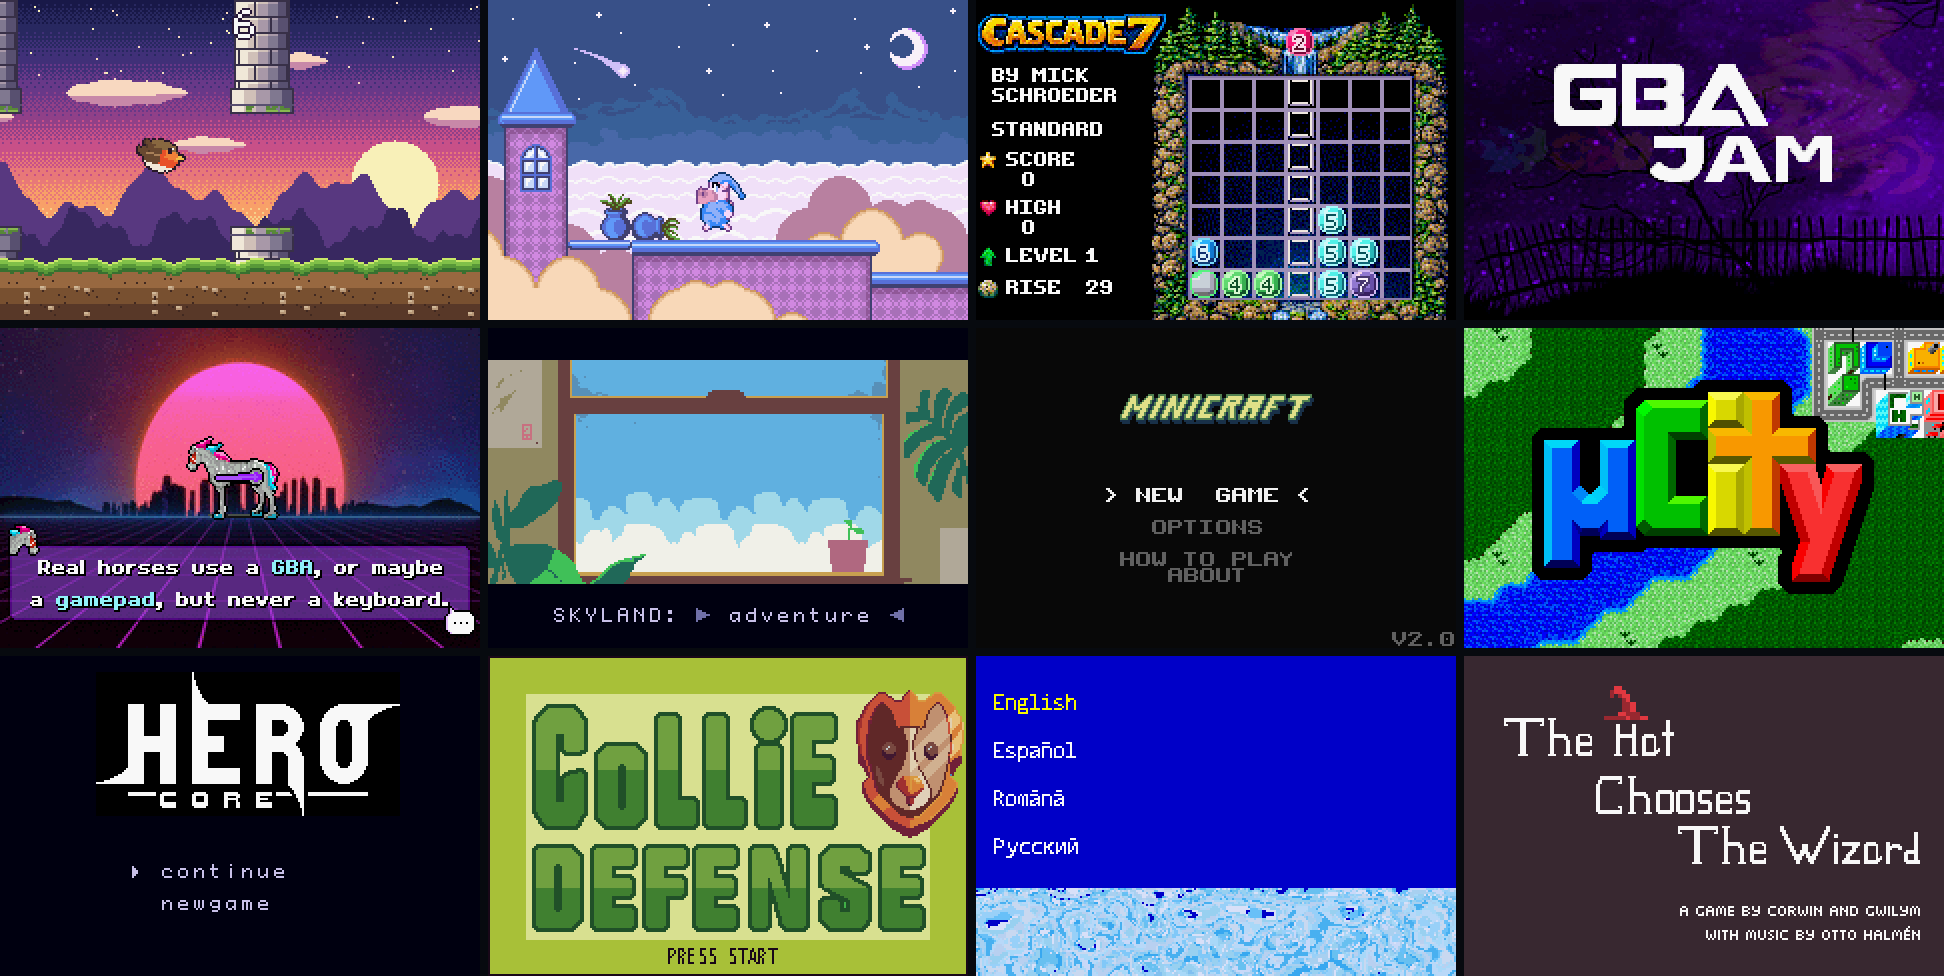
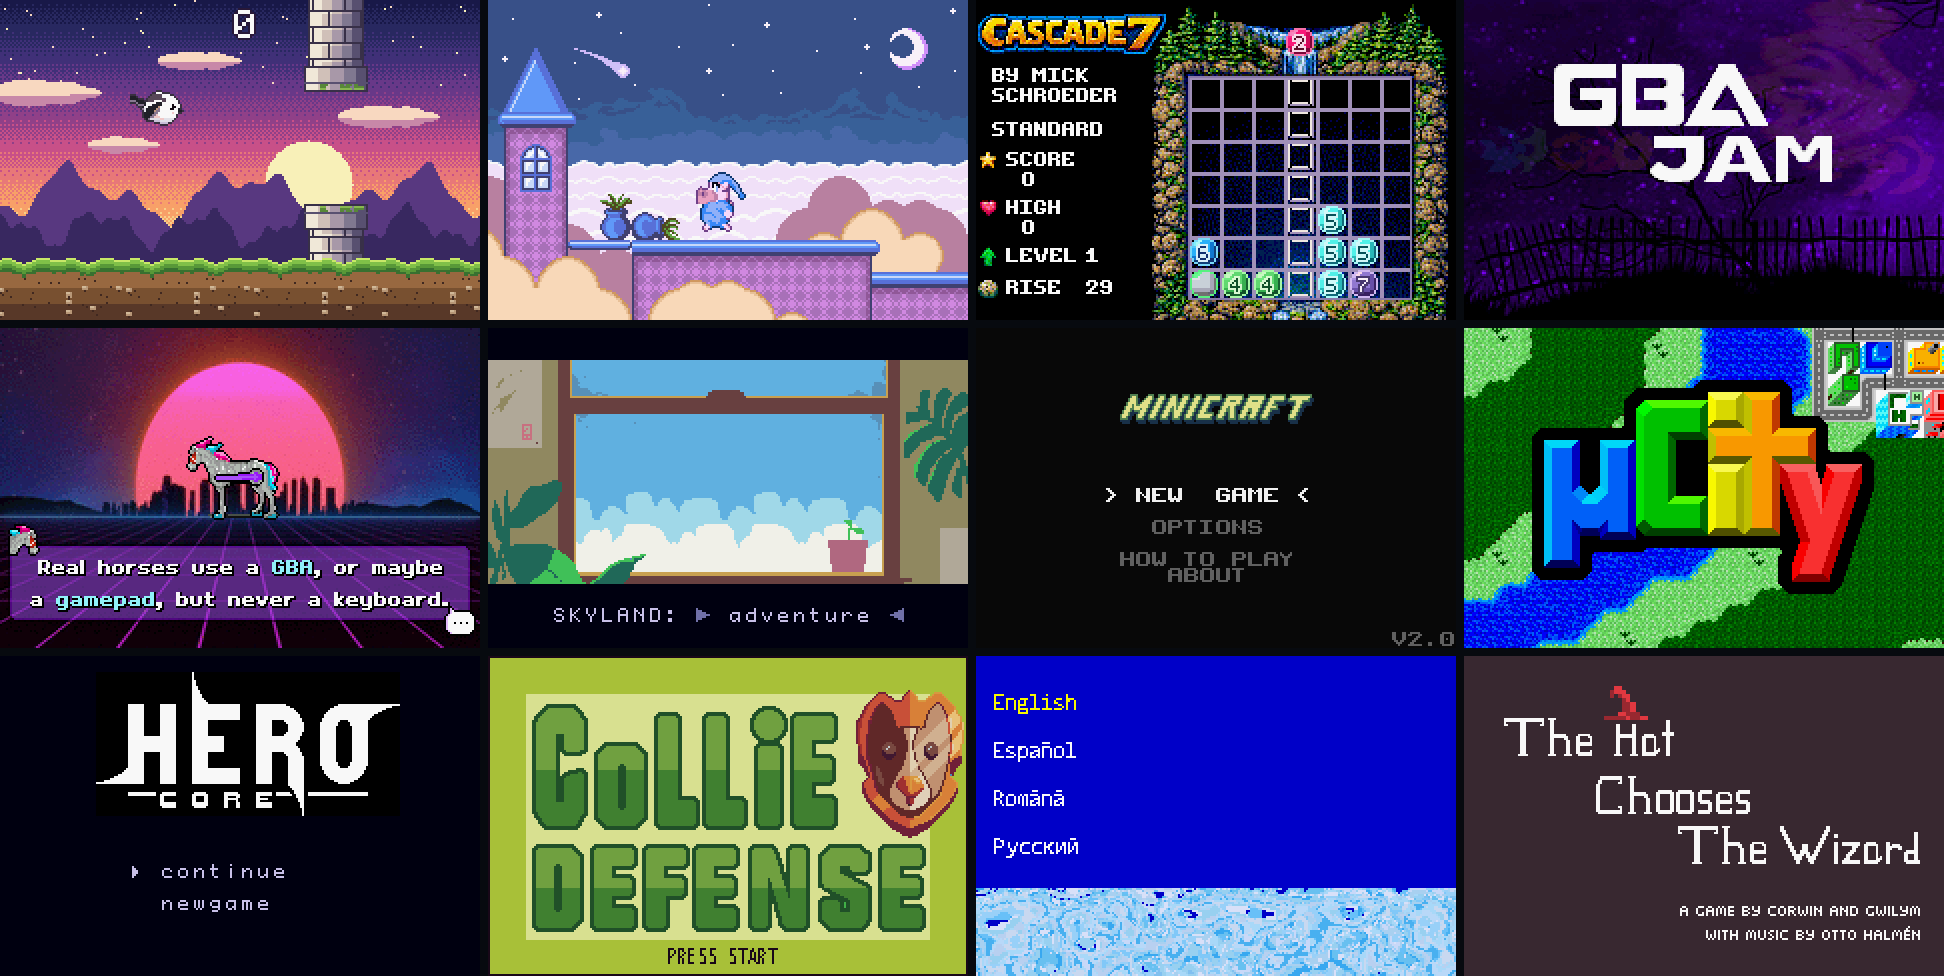
Replace the robin with a shimaenaga and rename to Flappy Enaga

Changed region(s): [[0.0, 0.0, 0.2469, 0.3074]]

diff --git a/web/app.js b/web/app.js
@@ -477,7 +477,7 @@ await loadLibrary();
 console.log('rgba debugger ready — load a .gba to begin');
 
 // Deep link: ?rom=<id> picks a library ROM on load (e.g. ?rom=dungeon-master).
-// Without one, the manifest's `default: true` entry (Flappy Robin) is loaded
+// Without one, the manifest's `default: true` entry (Flappy Enaga) is loaded
 // and started so the page never opens on an empty screen.
 const wanted = new URLSearchParams(location.search).get('rom');
 const fallback = library.find((r) => r.default);

diff --git a/fixtures/flappy-enaga/tools/gen_assets.py b/fixtures/flappy-enaga/tools/gen_assets.py
@@ -1,5 +1,5 @@
 #!/usr/bin/env python3
-"""Draws all of Flappy Robin's art and sound from code and writes them as a C
+"""Draws all of Flappy Enaga's art and sound from code and writes them as a C
 source file. Nothing here comes from another game. Usage: gen_assets.py OUTDIR"""
 import math
 import random
@@ -218,49 +218,63 @@ def columns():
     return out
 
 
-# --------------------------------------------------------------------- robin
-ROBIN_PAL = [rgb(c) for c in ["#000000", "#2a1f2a", "#8a6a44", "#6b4f33", "#e8572a", "#f6853e", "#f6eedc", "#f2c14e", "#ffffff", "#50392a", "#a9875a"]]
+# ----------------------------------------------------------------- shimaenaga
+ENAGA_PAL = [rgb(c) for c in ["#000000", "#3b3346", "#ffffff", "#e6e3ee", "#c9c3d8", "#26212c", "#5a4c58", "#c79a86", "#f4c9cf", "#140f16", "#8d7f95"]]
+OUT, WHITE, SHADE, SHADE2, BLACK, DARK, BROWN, PINK, EYE, GREY = range(1, 11)
 
 
-def robin(wing):
+def enaga(wing):
+    """A long-tailed tit (shimaenaga): a round white body and a long black tail."""
     img = canvas(32, 32)
-    cx, cy = 15.5, 16.0
+    for x in range(0, 11):  # tail, slightly raised, with a pale outer edge
+        top = 14 - (10 - x) // 4
+        for y in range(top, top + 2 + (x > 6)):
+            img[y][x] = BLACK
+        img[top + 2 + (x > 6)][x] = GREY if x < 9 else BLACK
+    cx, cy = 16.5, 16.5
     for y in range(32):
         for x in range(32):
-            nx, ny = (x - cx) / 9.0, (y - cy) / 8.0
-            if nx * nx + ny * ny > 1:
-                continue
-            if nx > -0.05 and ny > -0.45 and ny < 0.55:
-                c = 5 if nx > 0.25 and ny < 0.1 else 4
-            elif ny >= 0.55 or (nx > 0 and ny >= 0.4):
-                c = 6
-            else:
-                c = 2 if ny < -0.4 else 3
-            img[y][x] = c
-    for x in range(4, 8):  # tail
-        for y in range(14 + (7 - x) // 2, 18):
-            img[y][x] = 3
-    for x, y in [(19, 11), (20, 11), (19, 12), (20, 12), (19, 13), (20, 13)]:  # eye
-        img[y][x] = 1
-    img[11][20] = 8
-    for y, x0, x1 in [(14, 24, 27), (15, 24, 26)]:  # beak
-        for x in range(x0, x1 + 1):
-            img[y][x] = 7
-    shapes = {
-        "up": [(16, 9, 15), (15, 9, 15), (14, 8, 14), (13, 7, 13), (12, 6, 11), (11, 6, 9), (10, 7, 8)],
-        "mid": [(14, 8, 15), (15, 7, 15), (16, 7, 15), (17, 7, 14), (18, 8, 12)],
-        "down": [(15, 9, 15), (16, 8, 15), (17, 7, 14), (18, 6, 13), (19, 6, 11), (20, 6, 9), (21, 7, 8)],
-    }
-    for i, (y, x0, x1) in enumerate(shapes[wing]):
-        for x in range(x0, x1 + 1):
-            img[y][x] = 10 if i == 0 else 9 if x == x0 else 3
-    return outline(img, 1)
+            nx, ny = (x + 0.5 - cx) / 8.6, (y + 0.5 - cy) / 7.8
+            if nx * nx + ny * ny <= 1:
+                c = WHITE
+                if ny > 0.55 or (nx < -0.55 and ny > 0.1):
+                    c = SHADE
+                if ny > 0.8:
+                    c = SHADE2
+                img[y][x] = c
+    for x in range(9, 18):  # dark stripe over the back
+        for y in range(10 + abs(x - 13) // 3, 13 + (x < 12)):
+            if img[y][x]:
+                img[y][x] = DARK
+    for x, y in [(12, 20), (13, 20), (14, 21), (15, 21), (16, 21), (13, 21), (17, 21), (14, 20)]:  # pink flank
+        img[y][x] = PINK
+    # wing: a rounded ellipse hinged at the shoulder, tilted per frame
+    ang = {"up": 0.8, "mid": -0.1, "down": -0.8}[wing]
+    ca, sa = math.cos(ang), math.sin(ang)
+    for y in range(32):
+        for x in range(32):
+            dx, dy = x + 0.5 - 15.0, y + 0.5 - 15.5
+            u = -(dx * ca + dy * sa)
+            v = -dx * sa + dy * ca
+            if (u - 4.0) ** 2 / 5.2 ** 2 + v ** 2 / 2.8 ** 2 <= 1:
+                img[y][x] = GREY if v > 1.3 else BROWN if v > 0.4 and u < 4 else BLACK
+    img = outline(img, OUT)
+    for x in (21, 22):  # eye, 2x3, with a highlight
+        for y in (14, 15, 16):
+            img[y][x] = EYE
+    img[14][22] = WHITE
+    for x, y in [(25, 16), (25, 17), (26, 17)]:  # beak
+        img[y][x] = BLACK
+    for x, y in [(26, 16), (27, 17), (26, 18)]:
+        img[y][x] = OUT
+    img[18][22] = PINK  # blush
+    return img
 
 
-def robin_sheet():
+def enaga_sheet():
     out = canvas(128, 32)
     for i, wing in enumerate(["mid", "up", "mid", "down"]):
-        blit(out, robin(wing), i * 32, 0)
+        blit(out, enaga(wing), i * 32, 0)
     return out
 
 
@@ -420,13 +434,13 @@ def main():
     emit("groundTiles", fg_tiles)
     emit("groundMap", fg_map)
     emit("groundPal", GROUND_PAL)
-    emit("robinTiles", sprite_blocks(robin_sheet(), 32))
-    emit("robinPal", ROBIN_PAL)
+    emit("enagaTiles", sprite_blocks(enaga_sheet(), 32))
+    emit("enagaPal", ENAGA_PAL)
     emit("columnTiles", sprite_blocks(columns(), 32))
     emit("columnPal", COLUMN_PAL)
     emit("buttonTiles", sprite_blocks(button(), 16))
     emit("buttonPal", BUTTON_PAL)
-    text = sprite_blocks(banner("FLAPPY", "ROBIN", 2), 32) + sprite_blocks(banner("GAME", "OVER", 1), 32)
+    text = sprite_blocks(banner("FLAPPY", "ENAGA", 2), 32) + sprite_blocks(banner("GAME", "OVER", 1), 32)
     for d in range(10):
         text += sprite_tiles(digit(d))
     emit("textTiles", text)

diff --git a/fixtures/flappy-enaga/src/main.c b/fixtures/flappy-enaga/src/main.c
@@ -159,8 +159,8 @@ static void init_foreground() {
 
 // Initialize Sprite VRAM (Charbocks 4/5)
 static void init_sprite_vram() {
-	dma3_copy(&tile_mem[4][BIRD_TILE_BASE], robinTiles, robinTilesLen/2, DMA_NOW);
-	memcpy(&sprite_pal16_mem[BIRD_PAL_IDX], robinPal, robinPalLen);
+	dma3_copy(&tile_mem[4][BIRD_TILE_BASE], enagaTiles, enagaTilesLen/2, DMA_NOW);
+	memcpy(&sprite_pal16_mem[BIRD_PAL_IDX], enagaPal, enagaPalLen);
 
 	dma3_copy(&tile_mem[4][PIPE_TILE_BASE], columnTiles, columnTilesLen/2, DMA_NOW);
 	memcpy(&sprite_pal16_mem[PIPE_PAL_IDX], columnPal, columnPalLen);

diff --git a/src/gba/mod.rs b/src/gba/mod.rs
@@ -451,7 +451,7 @@ mod repro {
 
     #[test]
     fn live_point_shows_changing_pc_and_keeps_frame_rate() {
-        let bin = include_bytes!("../../fixtures/flappy-robin/flappy-robin.gba");
+        let bin = include_bytes!("../../fixtures/flappy-enaga/flappy-enaga.gba");
         let mut live = GBA::from_rom(bin);
         let mut plain = GBA::from_rom(bin);
         let mut pcs = std::collections::HashSet::new();

diff --git a/fixtures/flappy-enaga/tools/fixrom.py b/fixtures/flappy-enaga/tools/fixrom.py
@@ -5,7 +5,7 @@ import sys
 
 rom = bytearray(open(sys.argv[1], "rb").read())
 rom[0x04:0xA0] = open(sys.argv[2], "rb").read()[0x04:0xA0]
-rom[0xA0:0xAC] = b"FLAPPYROBIN\0"
+rom[0xA0:0xAC] = b"FLAPPYENAGA\0"
 rom[0xAC:0xB0] = b"BFRE"
 rom[0xB0:0xB2] = b"00"
 rom[0xB2] = 0x96
